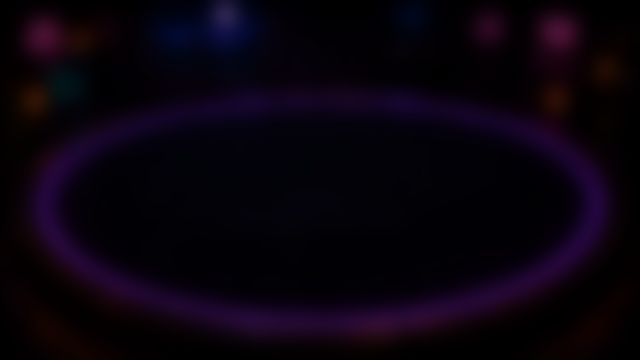
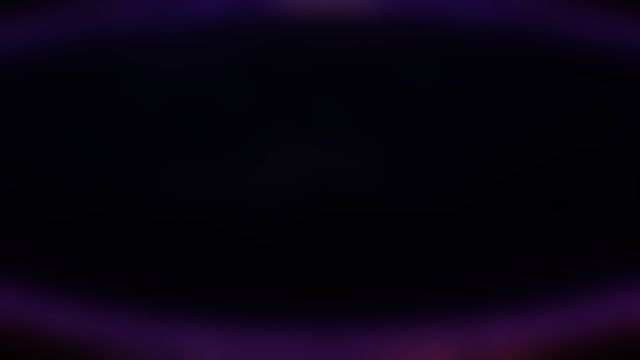
Update Sat 07/04/2026  1:56:16.48

diff --git a/client/src/AppNet.tsx b/client/src/AppNet.tsx
@@ -53,8 +53,8 @@ export default function AppNet() {
         <div className="app app-immersive">
           <header className="topbar net-topbar">
             <div className="brand">
-              <div className="sigil">GG</div>
-              <div><h1>GHOUL <b>POKER</b></h1><small>ROOM {g.room?.code}</small></div>
+              <img src="/assets/ui/logo.png" className="topbar-logo" alt="GHOUL POKER" />
+              <small className="roomtag">ROOM {g.room?.code}</small>
             </div>
             <div className="tablemeta">
               NL HOLD'EM ◆ <b>10 / 20</b> ◆ HAND #{g.state.handNo || '—'}

diff --git a/client/src/styles/app.css b/client/src/styles/app.css
@@ -607,3 +607,7 @@ button.gbtn.allin.danger{animation:btnDanger .3s ease-in-out infinite;border-col
 .sliderwrap .step{width:34px;height:34px;border-radius:8px;background:rgba(11,7,24,.8);border:1.5px solid var(--panel-edge);color:var(--ink);font-size:18px;cursor:pointer;transition:.15s}
 .sliderwrap .step:hover:not(:disabled){border-color:var(--gold);color:var(--gold)}
 .sliderwrap .step:disabled{opacity:.3;cursor:not-allowed}
+
+/* real drip logo in the in-game top bar */
+.topbar-logo{height:34px;image-rendering:pixelated;filter:drop-shadow(0 0 8px rgba(157,78,221,.5))}
+.brand .roomtag{font-size:11px;letter-spacing:1px;color:var(--pink,#ff3da5);margin-left:10px;align-self:flex-end;padding-bottom:3px}